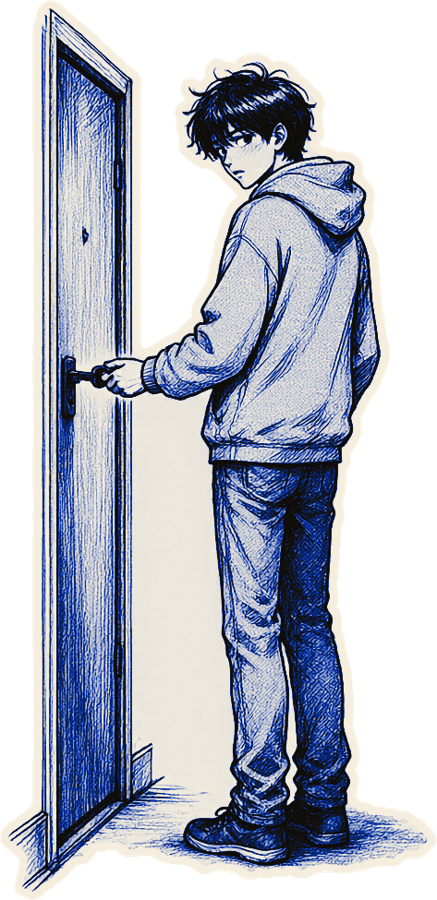
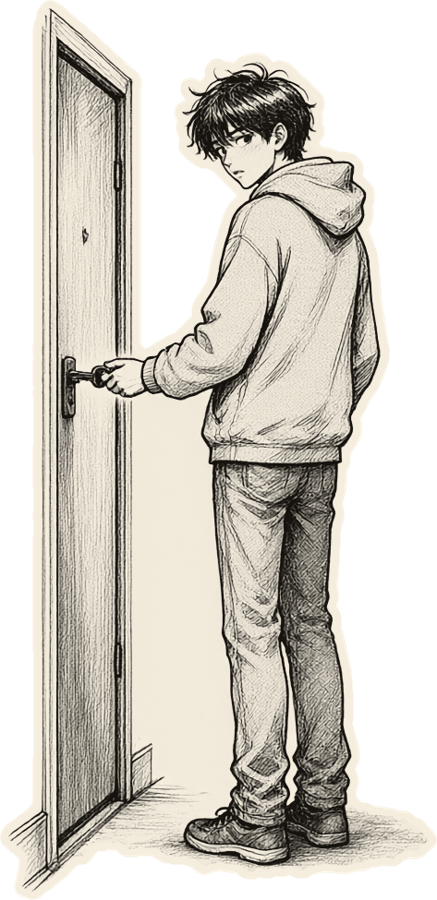
视觉系统 1.7：图片三类（实物贴纸 / 意象插画 / 氛围装饰）、SC02 改铅笔漫画模切贴纸、素材尽量透明（1.13.0）
- styles.json：新增 ambient；sc02 改铅笔灰 + 一处克莱因蓝；device 改透明；flat、anime-scene 停用
- diecut.py 默认铅笔灰；device_paste.py 保留透明通道；genimg 支持停用做法；genimg_list 检查类别
- 样张：sc02 6 张、ambient 6 张、透明手持手机；规则文档同步

Claude-Session: https://claude.ai/code/session_01MMNQANEaFEJ5Bu7Uy5CRsx

diff --git a/docs/previews/src/sheets.html b/docs/previews/src/sheets.html
@@ -47,8 +47,8 @@ table.ct td.r{font:900 26px var(--f-num);text-align:right}
 
 <div class="sheet" id="stickers">
   <div class="k">Aiwei Whitehat Log · Image samples</div>
-  <h1>图片样张 · 写实 12 + 动漫 6</h1>
-  <h2>只作风格样张，不进正片<small>写实为核心、动漫为辅（1.4）；全部抠图后过 tools/grade.py 统一调色。正片素材每期按口播重新生成</small></h2>
+  <h1>图片样张 · 类别 1 实物贴纸</h1>
+  <h2>只作风格样张，不进正片<small>写实 12 张 + 动漫高光版 4 张，全部抠图后过 tools/grade.py。类别 2 / 3 的样张见 docs/previews/styles/categories_*.jpg。正片素材每期按口播重新生成</small></h2>
   <div class="st" id="strow1" style="background:var(--char)"></div>
   <div class="st" id="strow2" style="background:var(--cream)"></div>
   <div class="st" id="strow3" style="background:var(--char)"></div>
@@ -87,10 +87,10 @@ if (sheet === 'stickers') {
   const cell = n => `<div><img src="../../../cards/images/samples/bmz_${n}.png"></div>`;
   document.getElementById('strow1').innerHTML = N.map(cell).join('');
   document.getElementById('strow2').innerHTML = N.map(cell).join('');
-  const AN = ['anime_chip', 'anime_key', 'anime_lock', 'anime_radar'], SC = ['anime_vault', 'anime_datacenter'];
+  const AN = ['anime_chip', 'anime_key', 'anime_lock', 'anime_radar'];
   document.getElementById('strow3').innerHTML = AN.map(n => `<div><img src="../../../cards/images/samples/anime/${n}.png"></div>`).join('') +
-    SC.map(n => `<div style="padding:26px 10px"><img style="border-radius:20px;filter:none" src="../../../cards/images/samples/anime/${n}.jpg"></div>`).join('');
-  document.getElementById('stnames').textContent = '第 1 行：写实 · 炭黑底　第 2 行：写实 · 奶油白底　第 3 行：动漫（4 个物件 + 2 个场景，场景只放进卡片 / 窗口）｜　' + N.map(n => 'bmz_' + n).join(' · ');
+    ['device/device_hand_示例贴图.png'].map(n => `<div><img src="../../../cards/images/samples/${n}"></div>`).join('');
+  document.getElementById('stnames').textContent = '第 1 行：写实 · 炭黑底　第 2 行：写实 · 奶油白底　第 3 行：动漫高光版 4 张 + 手持手机（透明，屏幕已贴示意截图）｜　' + N.map(n => 'bmz_' + n).join(' · ');
 }
 </script>
 </body></html>

diff --git a/docs/previews/src/categories.html b/docs/previews/src/categories.html
@@ -44,9 +44,9 @@ if (F === 'amb') {
 }
 if (F === 'sc02') {
   BGLIB.mount(fr, 'BG3', BG);
-  add('div', 'cap', 'left:64px;top:104px', '类别 2 · 意象插画 · SC02 模切贴纸（炭黑场直接用，奶油白描边 10px，投影渲染时加）');
-  const N = [['sc02_borrowed_key', '越权：用别人的钥匙开门'], ['sc02_waiting', '审核很慢：只能等'], ['sc02_magnifier', 'AI 给线索，人来逐条核'], ['sc02_boundary', '授权边界：到线就停']];
-  N.forEach(([n, l], i) => { const x = 64 + i * 456; img('stk diecut', IMG + `sc02/${n}.png`, x, 170, 420, 700); add('div', 'lab', `left:${x}px;top:900px;width:420px`, l); });
+  add('div', 'cap', 'left:64px;top:104px', '类别 2 · 意象插画 · SC02 铅笔漫画模切贴纸（铅笔灰 + 一处克莱因蓝点缀，奶油白描边 10px，投影渲染时加）');
+  const N = [['sc02_borrowed_key', '越权：用别人的钥匙开门'], ['sc02_waiting', '审核很慢：只能等'], ['sc02_magnifier', 'AI 给线索，人来核'], ['sc02_boundary', '授权边界：到线就停'], ['sc02p_report', '写报告（蓝：马克杯）'], ['sc02p_ladder', '一步步往上（蓝：旗）']];
+  N.forEach(([n, l], i) => { const x = 64 + i * 304; img('stk diecut', IMG + `sc02/${n}.png`, x, 170, 280, 700); add('div', 'lab', `left:${x}px;top:900px;width:290px;font-size:26px`, l); });
 }
 add('div', 'chapter-zone', '');
 window.ready = () => Promise.all([document.fonts.ready, ...[...document.images].map(i => i.decode().catch(() => {}))]);

diff --git a/engine/tokens.css b/engine/tokens.css
@@ -1,4 +1,4 @@
-/* 自动生成：python3 tools/gen_tokens.py ← tokens/brand.json（v1.6.0）。不要手改。 */
+/* 自动生成：python3 tools/gen_tokens.py ← tokens/brand.json（v1.7.0）。不要手改。 */
 :root{
   --char:#16130F;  /* 炭黑 */
   --char-hi:#241F19;  /* 炭黑·中心 */

diff --git a/tools/genimg.py b/tools/genimg.py
@@ -5,8 +5,8 @@
 用法：python3 tools/genimg.py jobs.json 输出目录
 jobs.json: [{"name":"bm01_xxx","preset":"iso","prompt":"本期的画面内容","size":"1024x1024"}, ...]
 preset（风格提示词在 cards/images/styles.json）:
-  real 写实产品摄影（核心）· anime 动漫光效（辅助）· sc02-line / sc02-duo SC02 蓝调漫画 · tone · device · flat ……（新风格加进 styles.json 即可用）
-  停用的风格（styles.json 里 status = 停用：sticker、toy、iso）默认拒绝；确实要用（例如重做旧样张）加 --allow-retired
+  类别 1：real 写实（核心）· anime 动漫高光版 · device 手持手机 ｜ 类别 2：sc02-line / sc02-duo 铅笔漫画 ｜ 类别 3：ambient 氛围道具（新风格加进 styles.json 即可用）
+  停用的风格 / 做法（styles.json 里 status = 停用：sticker、toy、iso、flat、anime-scene）默认拒绝；确实要用（例如重做旧样张）加 --allow-retired
 生成后：python3 -I tools/cutout.py object … → python3 -I tools/grade.py …（统一调色）
   photo    写实照片（只放进手机屏幕、窗口、卡片里，不整屏铺底）
   raw      不加后缀
@@ -20,7 +20,7 @@ import base64, json, os, subprocess, sys, time
 ROOT = os.path.dirname(os.path.dirname(os.path.abspath(__file__)))
 BRAND = json.load(open(os.path.join(ROOT, 'tokens', 'brand.json'), encoding='utf-8'))
 STYLES = json.load(open(os.path.join(ROOT, BRAND['imagery']['styles_file']), encoding='utf-8'))['styles']
-RETIRED = {k for k, v in STYLES.items() if v.get('status') == '停用'}
+RETIRED = {k for k, v in STYLES.items() if v.get('status') == '停用'} | {f'{k}-{vk}' for k, v in STYLES.items() for vk, vv in v.get('variants', {}).items() if vv.get('status') == '停用'}
 PRESET = {
     **{k: v['prompt_suffix'] for k, v in STYLES.items() if 'prompt_suffix' in v},
     **{f'{k}-{vk}': vv['prompt_suffix'] for k, v in STYLES.items() for vk, vv in v.get('variants', {}).items()},
@@ -28,7 +28,7 @@ PRESET = {
     'raw': "",
 }
 jobs = json.load(open(sys.argv[1], encoding='utf-8')); out = sys.argv[2]; os.makedirs(out, exist_ok=True)
-bad = sorted({j.get('preset', 'raw').split('-')[0] for j in jobs} & RETIRED)
+bad = sorted({p for j in jobs for p in (j.get('preset', 'raw'), j.get('preset', 'raw').split('-')[0])} & RETIRED)
 if bad and '--allow-retired' not in sys.argv:
     sys.exit('风格已停用：%s（见 cards/images/styles.json 的 retired_reason；名词实物化改用 real）。确实要用加 --allow-retired' % '、'.join(bad))
 for j in jobs:

diff --git a/tools/genimg_list.py b/tools/genimg_list.py
@@ -2,11 +2,14 @@
 """把生图清单（docs/templates/生图清单模板.md 的表格）转成 tools/genimg.py 的任务文件。
 用法：python3 tools/genimg_list.py 生图清单.md > jobs.json
 读取表头含「preset」「文件名」「画面描述」的表格，每行一个任务；文件名为空或 preset 为空的行跳过。
-停用的风格（styles.json 里 status = 停用）直接报错。"""
+停用的风格 / 做法（styles.json 里 status = 停用）直接报错。
+1.7：表格有「类别」列时检查风格和类别对得上（1 实物贴纸 / 2 意象插画 / 3 氛围装饰，见 brand.json → imagery.categories），
+类别 2 必须写「要传达的意思」。"""
 import json, os, sys
 ROOT = os.path.dirname(os.path.dirname(os.path.abspath(__file__)))
 STY = json.load(open(os.path.join(ROOT, 'cards/images/styles.json'), encoding='utf-8'))['styles']
-OK = {k for k, v in STY.items() if v.get('status') != '停用'} | {f'{k}-{vk}' for k, v in STY.items() if v.get('status') != '停用' for vk in v.get('variants', {})} | {'photo', 'raw'}
+OK = {k for k, v in STY.items() if v.get('status') != '停用'} | {f'{k}-{vk}' for k, v in STY.items() if v.get('status') != '停用' for vk, vv in v.get('variants', {}).items() if vv.get('status') != '停用'} | {'photo', 'raw'}
+CAT = {k: set(v['styles']) for k, v in json.load(open(os.path.join(ROOT, 'tokens/brand.json'), encoding='utf-8'))['imagery']['categories'].items()}
 cells = lambda l: [c.strip() for c in l.strip().strip('|').split('|')]
 jobs, head, errs = [], None, []
 for line in open(sys.argv[1], encoding='utf-8'):
@@ -21,6 +24,11 @@ for line in open(sys.argv[1], encoding='utf-8'):
     if not name or not preset: continue
     if preset not in OK: errs.append(f'{name}：preset「{preset}」不可用（停用或不存在）'); continue
     if not prompt: errs.append(f'{name}：缺画面描述'); continue
+    cat = row.get('类别', '').strip()
+    if cat:
+        if cat not in CAT: errs.append(f'{name}：类别「{cat}」只能是 1 / 2 / 3'); continue
+        if preset.split('-')[0] not in CAT[cat]: errs.append(f'{name}：类别 {cat} 只用 {"、".join(sorted(CAT[cat]))}，这里写的是 {preset}'); continue
+        if cat == '2' and not row.get('要传达的意思', '').strip(): errs.append(f'{name}：类别 2（意象插画）要先写「要传达的意思」'); continue
     j = {'name': name, 'preset': preset, 'prompt': prompt}
     if preset == 'anime-scene': j['size'] = '1536x1024'
     jobs.append(j)

diff --git a/tools/diecut.py b/tools/diecut.py
@@ -1,11 +1,11 @@
 #!/usr/bin/env python3
 """模切贴纸：把纸底漫画（SC02）做成带奶油白描边的透明贴纸，放在炭黑场上也立得住（类别 2 · 意象插画）。
-用法：python3 -I tools/diecut.py 原图.png 输出.png [--border 10] [--tone klein|ink|none] [--crop x0,y0,x1,y1] [--close 12]
+用法：python3 -I tools/diecut.py 原图.png 输出.png [--border 10] [--tone none|klein|ink] [--crop x0,y0,x1,y1] [--close 12]
   1. 找墨迹：比纸色暗一截的像素 + 有颜色的像素（朱橙点缀、蓝色网点）
   2. 轮廓：闭运算把排线连起来 → 填洞 → 去掉碎点 → 平滑，得到人物 / 物件的剪影
   3. 描边：剪影外扩 --border px（圆角），描边区填奶油白；边缘抗锯齿，输出透明 PNG
-  4. 调色（--tone klein，默认）：灰阶按 炭黑 → 克莱因蓝 → 奶油白 映射（和 sc02-duo 同一组色标，见 brand.json → imagery.duotone.klein），
-     有颜色的像素（朱橙点缀）保留；--tone ink 蓝黑墨（只有最深的墨线偏蓝，中间调是中性铅笔灰）；--tone none 只把纸白映射成奶油白、墨黑映射成炭黑
+  4. 调色（默认 --tone none，1.7 用户确认）：铅笔灰原样保留，只把纸白映射成奶油白、墨黑映射成炭黑；有颜色的像素（克莱因蓝点缀、朱橙光）保留原色。
+     --tone klein 蓝调（灰阶按 炭黑 → 克莱因蓝 → 奶油白 映射，只给冷色情绪的极少数画面）；--tone ink 蓝黑墨（对比用，不推荐）
   --crop 先裁掉画面里伸到边上的部分（例如贯穿全图的地平线），再做模切
 投影不烘焙：网页用 filter: drop-shadow，AE 用图层样式「投影」，方便调。"""
 import json, os, sys
@@ -23,7 +23,7 @@ while i < len(args):
     pos_args.append(args[i]); i += 1
 src, dst = pos_args[:2]
 opt = lambda k, d: type(d)(args[args.index(k) + 1]) if k in args else d
-BORDER, TONE, CLOSE, CROP = opt('--border', 10), opt('--tone', 'klein'), opt('--close', 12), opt('--crop', '')
+BORDER, TONE, CLOSE, CROP = opt('--border', 10), opt('--tone', 'none'), opt('--close', 12), opt('--crop', '')
 
 img = Image.open(src).convert('RGB')
 if CROP: img = img.crop(tuple(int(v) for v in CROP.split(',')))

diff --git a/tools/device_paste.py b/tools/device_paste.py
@@ -4,7 +4,8 @@
   1. 找屏幕：亮度 ≥ --white、饱和度低的像素里最大的一块（device 提示词要求「纯白空屏」）
   2. 四个角：x+y 最小 / x−y 最大 / x+y 最大 / x−y 最小 → 左上 / 右上 / 右下 / 左下
   3. 截图按四个角做透视变换贴上去，再用屏幕本身的形状做遮罩：圆角、刘海、手指压住的地方都保留照片原样
-截图保留原色（用户素材不调色）；照片本身要过 tools/grade.py 的话，先调色再贴截图。"""
+截图保留原色（用户素材不调色）；照片本身要过 tools/grade.py 的话，先调色再贴截图。
+1.7：照片可以是抠好的透明 PNG（只有手和手机），透明通道原样保留。"""
 import sys
 import numpy as np
 from PIL import Image, ImageFilter
@@ -15,9 +16,11 @@ opt = lambda k, d: float(sys.argv[sys.argv.index(k) + 1]) if k in sys.argv else 
 photo_p, shot_p, out_p = args[:3]
 WHITE, FEATHER = opt('--white', 225), opt('--feather', 1)
 
-photo = Image.open(photo_p).convert('RGB'); P = np.asarray(photo).astype(np.int16)
+src_img = Image.open(photo_p); has_a = src_img.mode in ('RGBA', 'LA') or 'transparency' in src_img.info
+photo = src_img.convert('RGB'); P = np.asarray(photo).astype(np.int16)
+A0 = np.asarray(src_img.convert('RGBA'))[:, :, 3] if has_a else np.full(P.shape[:2], 255, np.uint8)
 lum = P.mean(axis=2); sat = P.max(axis=2) - P.min(axis=2)
-cand = (lum >= WHITE) & (sat <= 30)   # 调过色的照片白屏是奶油白（饱和差约 22）
+cand = (lum >= WHITE) & (sat <= 30) & (A0 > 200)   # 调过色的照片白屏是奶油白（饱和差约 22）
 lab, n = ndimage.label(cand)
 if not n: sys.exit('没找到白屏：调低 --white，或确认照片是纯白空屏')
 sizes = ndimage.sum(cand, lab, range(1, n + 1))
@@ -53,5 +56,6 @@ warped = shot.transform(photo.size, Image.PERSPECTIVE, tuple(coef), Image.BICUBI
 mask = Image.fromarray((ndimage.binary_dilation(screen, iterations=2) * 255).astype(np.uint8))
 if FEATHER: mask = mask.filter(ImageFilter.GaussianBlur(FEATHER))
 out = photo.copy(); out.paste(warped, (0, 0), mask)
+if has_a: out.putalpha(Image.fromarray(A0))
 out.save(out_p)
 print(out_p, '屏幕四角', quad.astype(int).tolist())

diff --git a/STYLE.md b/STYLE.md
@@ -1,4 +1,4 @@
-# 艾唯白帽志 · 视觉系统 1.6
+# 艾唯白帽志 · 视觉系统 1.7
 
 所有数值以 `tokens/brand.json` 为准（本文件是说明）。网页用 `engine/tokens.css`（由 `tools/gen_tokens.py` 生成）+ `engine/base.css`。
 预览：`docs/previews/`（`sheet_palette.jpg` 配色、`sheet_backgrounds.jpg` 背景板、`sheet_stickers.jpg` 陶瓷贴纸样张（1.4 起停用，仅作历史参考）、`demo_F1–F4.jpg` 演示关键帧、`phone_demo.jpg` 手机竖屏模拟）。各图片风格的样张预览在 `docs/previews/styles/`；`toy` / `tone` 样张和演示帧 F5 / F6 在提交 `adbbc35`（`main` 历史中）。
@@ -15,7 +15,7 @@
 
 ## 1. 概念与气质
 - 账号：艾唯白帽志 —— AI 挖洞、攻防技术、网安就业。
-- 气质：**简约、高级、冷静的科技感**。炭黑做底，朱橙点重点，克莱因蓝做对照，**写实产品摄影**做主体（1.4 起；动漫光效为辅）。
+- 气质：**简约、高级、冷静的科技感**。炭黑做底，朱橙点重点，克莱因蓝做对照；图片分三类（1.7）：实物贴纸（写实为核心）、意象插画（SC02 铅笔漫画模切贴纸）、氛围装饰（写实虚化道具 + 光斑）。
 - **高质感版**（1.5 起，用户确认）：画面像一张「工作台」——点阵 + 十字标的背景（BG3），主体后面放朱橙光晕 + 刻度环，窗口和卡片是细描边 + 深投影，物件、窗口、构造线上带等宽装饰小字。来源和对比见 `docs/previews/explore/compare_D1.jpg`、`compare_D6.jpg`。
 - 母题：**雷达**（AI 扫描目标）。1.5 起以「焦点刻度环」出现在主体后面（BG3 焦点组件）；圆环 + 扫描扇区（BG1）保留给章节卡和雷达扫掠转场。
 - 视觉符号：**白帽**（奶油白礼帽 + 克莱因蓝帽带）。只是母题，需要时按本期生成，不做跨期复用的品牌素材。
@@ -90,24 +90,24 @@
 | 信息卡 | `cards/infocards/` | 承载信息的组件 × A/B 场景 × S–XL（`IC.render` + `IC.fit` + `IC.animate`） | ✅ P4：20 个，持续扩充 |
 | 配方 | `cards/recipes/` | 叙事功能 → 排版 + 信息卡 + 图片 + 动效 | P6 |
 
-### 6.1 图片风格（`cards/images/styles.json`）
-**不设品牌素材层，每期的图片都不一样。** 库里只放风格提示词和后期处理方法，每期按口播写画面内容、配上风格后缀现生成，或用用户交来的图。**不得使用挖洞号的 SC-01、黑白雕塑或任何挖洞号素材。**
-| preset | 风格 | 用来讲什么 | 后期 |
+### 6.1 图片：三类素材（1.7，用户确认）
+**不设品牌素材层，每期的图片都不一样。** 库里只放风格提示词和后期处理方法，每期按口播现生成，或用用户交来的图。**不得使用挖洞号的 SC-01、黑白雕塑或任何挖洞号素材。** **素材尽量透明底**：手持手机就是「手 + 手机」，不带桌面和环境。
+
+| 类别 | 是什么 | 风格（preset） | 后期 |
 |---|---|---|---|
-| **`real`** | **写实产品摄影（核心）**：真实材质（拉丝金属、阳极氧化铝、玻璃、哑光塑料），暗调布光 + 暖色轮廓光，物件保留本来的颜色 | 名词实物化（芯片、服务器、锁、钥匙、手机……） | 抠透明底 → 统一调色 |
-| `anime` | 动漫光效（辅助）：手绘动画电影背景美术质感，夜蓝阴影 + 朱橙光 | 主角镜头、高光时刻（开场主体、金句、关键一步），一屏最多一个 | 抠透明底 → 统一调色 |
-| `sc02-line` | **SC02 · 蓝调漫画** · 蓝线漫画 | 角色、情境、人物反应 | 直接用 / 抠透明底 |
-| `sc02-duo` | **SC02 · 蓝调漫画** · 黑白漫画 → 蓝调 | 物件、场景、情绪节点 | `tools/duotone.py --map klein --grain 0` |
-| `tone` | 双色调摄影 | 章节卡、反转、金句 | `tools/duotone.py` |
-| `device` | 手持设备实拍 | 把用户截图放进手机屏幕 | 调色 → `tools/device_paste.py` 自动透视贴入截图（样张 `samples/device/`） |
-| `flat` | 几何平面插画 | 比喻、类比 | 放进卡片（样张 `samples/flat/`） |
-- **SC02** 是白帽志版的漫画风，和挖洞号 SC-01 的区别：不用黑帽遮眼 / 黑工装夹克的形象，不做「炭黑底 + 黑白人物 + 暖色轮廓光」，网点和高光用克莱因蓝，朱橙只做极小点缀，优先放奶油白场。样张预览 `docs/previews/styles/SC02.jpg`。
-- **写实为核心，动漫为辅**（2026-11-27 用户确认）。一期尽量只用 2–3 种风格；写实、动漫、漫画、平面插画不在同一个镜头里混用。`flat` / `device` 样张见 `docs/previews/styles/flat_device.jpg`。
-- **统一调色，不统一配色**：生图保留物件本来的颜色，不再限制奶油白 / 克莱因蓝 / 朱橙三色；抠图后一律过 `python3 -I tools/grade.py`（参数在 `brand.json` → `imagery.grade`）：朱橙附近色相保留饱和度、其他色相压到一半，纯黑 → 炭黑、纯白 → 奶油白。状态灯、发光在提示词里写成 warm orange，不要绿灯、蓝光、紫光。
-- 写实的暗色物件（黑机箱、深色锁体）放在炭黑场会被吃掉轮廓：提示词必须写 warm rim light，挑图时检查轮廓。
-- **停用**：`sticker` 陶瓷贴纸、`toy` 设计师玩具、`iso` 等距微缩（同为粘土 / 陶瓷质感，显得廉价、像模板）。`tools/genimg.py` 默认拒绝这三个 preset。结构、流程类内容改用矢量图形和信息卡画。
-- **样张（P5，2026-11-27）**：`cards/images/samples/bmz_*.png` 写实 12 张，`cards/images/samples/anime/` 动漫 6 张（物件 4 + 场景 2），预览 `docs/previews/sheet_stickers.jpg`，提示词 `samples/prompts.json`。**样张不进正片**。风格对比见 `docs/previews/explore/styles_sheet.jpg`。动漫有两种做法：`anime`（物件，抠图）和 `anime-scene`（空场景，只调色，放进卡片 / 窗口）。
-- 用户提供的截图、图片、录屏一律**保留原色**，放进窗口 / 卡片 / 手机屏幕里，不重新调色；需要时只加朱橙标注。
+| **1 · 实物贴纸** | 口播直接说到的东西：说到什么画什么 | **`real` 写实产品摄影（核心）**：真实材质，暗调布光 + 暖色轮廓光，物件保留本来的颜色 · `anime` 动漫高光版：全期最关键的 1–2 个时刻，只画物件 · `device` 手持手机：只有手和手机 | 抠图 → `tools/grade.py`；手机再 `tools/device_paste.py` 贴截图 |
+| **2 · 意象插画** | 口播没直说、要让观众意会的抽象意思（越权 = 用别人的钥匙开门；审核慢 = 趴在桌上等） | **`sc02-line` SC02 · 铅笔漫画**：铅笔灰打底，克莱因蓝只做一处小物件点缀（`sc02-duo` 黑白漫画可选） | `tools/diecut.py` 做成模切贴纸（奶油白描边 10px） |
+| **3 · 氛围装饰** | 不讲内容，只加画面丰富度和质感 | **`ambient` 写实虚化道具**（键帽、网线、螺丝、电路板碎片……）+ 程序化光斑 `.bokeh` | 抠图 → `tools/grade.py --sat 0.3`；虚化、压暗在渲染时加（`.amb.near` / `.amb.far`） |
+
+- **主体规则**：每个镜头的主体是类别 1 或类别 2 之一；类别 3 只做陪衬，每屏 ≤ 3 个，不带朱橙，不进章节进度条区，不挡主体和字。主体是类别 2（SC02）的镜头，类别 3 只用程序化光斑，不放写实道具。
+- **证据**：用户提供的截图、图片、录屏不属于这三类，**保留原色**放进窗口 / 卡片 / 手机屏幕里，不重新调色；需要时只加朱橙标注。
+- **统一调色，不统一配色**：生图保留物件本来的颜色；抠图后一律过 `python3 -I tools/grade.py`（参数在 `brand.json` → `imagery.grade`）：朱橙附近色相保留饱和度、其他色相压到一半，纯黑 → 炭黑、纯白 → 奶油白。状态灯、发光写成 warm orange，不要绿灯、蓝光、紫光。写实的暗色物件提示词必须写 warm rim light。
+- **SC02 · 铅笔漫画**（1.7 起，原「蓝调漫画」）：铅笔灰 + 一处克莱因蓝点缀，像宝石一样，不整张染蓝；物件本身不画成朱橙，朱橙只做极小的光。提示词固定写「整个人物在画面内、四周留白」，挑图检查有没有被裁切、有没有 logo。和挖洞号 SC-01 的区别：不用黑帽遮眼 / 黑工装夹克，不做「炭黑底 + 黑白人物 + 暖色轮廓光」。三种色调对比见 `docs/previews/styles/sc02_tone_compare.jpg`；蓝调（`diecut.py --tone klein`）只留给冷色情绪的极少数画面。
+- 一期尽量只用 2–3 种风格；同一镜头里写实和漫画不混用（类别 3 的写实道具只配类别 1 主体）。
+- **其他**：`tone` 双色调摄影保留给章节卡、金句的情绪画面（混合模式「变亮」融进背景，例外地不透明）。
+- **停用**：`sticker` 陶瓷贴纸、`toy` 设计师玩具、`iso` 等距微缩（粘土 / 陶瓷质感显得廉价）；`flat` 几何插画（比喻交给 SC02）；`anime-scene` 动漫场景（整张带背景）。`tools/genimg.py`、`tools/genimg_list.py` 默认拒绝。
+- **样张**（不进正片）：类别 1 `cards/images/samples/bmz_*.png`（写实 12）、`samples/anime/`（4）、`samples/device/`；类别 2 `samples/sc02/`（6）；类别 3 `samples/ambient/`（6）。预览：`docs/previews/sheet_stickers.jpg`、`docs/previews/styles/categories_A.jpg / B / amb / sc02`。提示词记录 `samples/prompts.json`。
+- 生图清单按 `docs/templates/生图清单模板.md` 写，每张标「类别」，类别 2 先写「要传达的意思」；`tools/genimg_list.py` 会检查类别和风格对得上。
 
 ## 7. 其他库
 | 库 | 位置 | 状态 |

diff --git a/docs/templates/生图清单模板.md b/docs/templates/生图清单模板.md
@@ -1,19 +1,23 @@
 # 生图清单 · BMxx《本期标题》
 
 > 剪辑思路汇报的附件。用户确认（可删减、改画面描述）后，用 `python3 tools/genimg_list.py 本文件 > footage/gen/jobs.json` 生成任务文件，再 `python3 tools/genimg.py footage/gen/jobs.json footage/gen` 串行生图。
-> 规则：数量按「契合口播、不抢核心演示」范围内的最大量规划；实操录屏、人物画面不加图；同一张生图不得出现在两期（交付前对照 `EPISODES.md` 的素材使用记录）。
+> 规则：数量按「契合口播、不抢核心演示」范围内的最大量规划；实操录屏、人物画面不加图；同一张生图不得出现在两期（交付前对照 `EPISODES.md` 的素材使用记录）。素材尽量透明底。
 
-- 总数：N 张（写实 a · 动漫 b · 其他 c）
-- 风格：写实 `real` 为核心；高光时刻用 `anime` / `anime-scene`，一屏最多一个；人物、情境用 `sc02-line` / `sc02-duo`；比喻用 `flat`；手机截图用 `device`。停用：`sticker` / `toy` / `iso`。
+- 总数：N 张（类别 1 实物贴纸 a · 类别 2 意象插画 b · 类别 3 氛围装饰 c）
+- **类别 1 · 实物贴纸**：口播直接说到的东西，说到什么画什么。`real` 写实为核心；全期最关键的 1–2 个时刻可用 `anime` 高光版；手机截图用 `device`（透明：只有手和手机）。
+- **类别 2 · 意象插画**：口播没直说、要让观众意会的意思。先写「要传达的意思」，再写画面。`sc02-line` 铅笔漫画 → 模切贴纸（克莱因蓝只做一处小点缀）。
+- **类别 3 · 氛围装饰**：不讲内容，只加质感。`ambient` 写实虚化道具（每屏 ≤ 3 个，不带朱橙）；主体是类别 2 的镜头只用程序化光斑，不出图。
+- 每个镜头的主体是类别 1 或类别 2 之一。停用：`sticker` / `toy` / `iso` / `flat` / `anime-scene`。
 - 画面描述只写本期的物件 / 场景，不写风格后缀（`genimg.py` 按 preset 自动加）；不写屏幕文字、标签、Logo。
 
-| # | 镜头 | 对应口播 | preset | 文件名 | 画面描述（英文，不含风格后缀） | 后期 | 备注 |
-|---|---|---|---|---|---|---|---|
-| 1 | S03 | 「AI 先把接口跑一遍」 | real | bm01_chip | a square AI processor chip, black ceramic package with brushed aluminium heat spreader, gold pins, faint warm orange glow at the die edge | 抠图 → 调色 | 当前步主体，挂 BG3 焦点 |
-| 2 | S07 | 「金库门开了一条缝」 | anime-scene | bm01_vault | a massive round bank vault door slightly ajar in a dark corridor, warm orange light pouring out of the gap | 只调色 | 放进 XL 卡片 |
-| 3 | S09 | 「审核通过会收到通知」 | device | bm01_phone | one hand holding a phone upright with a slight tilt, the whole phone visible | 调色 → 贴截图 | 截图用用户提供的（保留原色） |
+| # | 镜头 | 对应口播 | 类别 | 要传达的意思 | preset | 文件名 | 画面描述（英文，不含风格后缀） | 后期 | 备注 |
+|---|---|---|---|---|---|---|---|---|---|
+| 1 | S03 | 「AI 先把接口跑一遍」 | 1 | — | real | bm01_chip | a square AI processor chip, black ceramic package with brushed aluminium heat spreader, gold pins, faint warm orange glow at the die edge | 抠图 → 调色 | 当前步主体，挂 BG3 焦点 |
+| 2 | S05 | 「改个 uid 就看到别人的订单」 | 2 | 越权：拿别人的钥匙开了别人的门 | sc02-line | bm01_borrowed_key | a young person in a light grey hoodie turning a key in the lock of a small freestanding door, glancing back over the shoulder nervously, the key colored Klein blue | 模切 | 主体，配关键词卡 |
+| 3 | S05 | — | 3 | — | ambient | bm01_amb_keycaps | three loose mechanical keyboard keycaps in matte charcoal grey | 抠图 → 调色 --sat 0.3 | S03 前景虚化 |
+| 4 | S09 | 「审核通过会收到通知」 | 1 | — | device | bm01_phone | one hand holding a phone upright with a slight tilt | 抠图 → 调色 → 贴截图 | 截图用用户提供的（保留原色） |
 
 后期命令：
-- 物件（real / anime）：`python3 -I tools/cutout.py object 原图 抠图.png [--fill-holes]` → `python3 -I tools/grade.py 抠图.png episodes/<本期>/assets/文件名.png`
-- 场景（anime-scene）、几何插画（flat）：`python3 -I tools/grade.py 原图 输出`（flat 可不调色）
-- 手持设备（device）：先 `tools/grade.py` 调照片，再 `python3 -I tools/device_paste.py 照片 截图 输出`（截图保留原色）
+- 类别 1 物件（real / anime）、类别 3（ambient）：`python3 -I tools/cutout.py object 原图 抠图.png [--fill-holes]` → `python3 -I tools/grade.py 抠图.png 输出.png`（类别 3 加 `--sat 0.3`）
+- 类别 1 手持手机（device）：抠图（`--fill-holes`）→ `tools/grade.py` → `python3 -I tools/device_paste.py 调色.png 截图.png 输出.png`
+- 类别 2（sc02）：`python3 -I tools/diecut.py 原图 输出.png`（画面伸到边上的先 `--crop x0,y0,x1,y1`）

diff --git a/cards/images/README.md b/cards/images/README.md
@@ -8,14 +8,17 @@
 | preset | 风格 | 用来讲什么 | 后期 | 样张 |
 |---|---|---|---|---|
 | **`real`** | **写实产品摄影（核心）** | 名词实物化：芯片、服务器、锁、钥匙、手机…… | 抠透明底 → `tools/grade.py` | `samples/bmz_*.png` |
-| `anime` / `anime-scene` | 动漫光效（辅助）：物件 / 空场景 | 主角镜头、高光时刻，一屏最多一个；场景放进卡片 / 窗口 | 物件抠图 → `tools/grade.py`；场景只调色 | `samples/anime/` |
-| `sc02-line` | **SC02 · 蓝调漫画** · 做法一 蓝线漫画 | 角色、情境、人物反应 | 直接用 / 抠透明底 | `docs/previews/styles/SC02.jpg` |
-| `sc02-duo` | **SC02 · 蓝调漫画** · 做法二 黑白漫画 → 蓝调 | 物件、场景、情绪节点 | `tools/duotone.py --map klein --grain 0` | 同上 |
+| `anime` | 动漫高光版（类别 1）；`anime-scene` 已停用 | 全期最关键的 1–2 个时刻，只画物件 | 抠图 → `tools/grade.py` | `samples/anime/` |
+| `sc02-line` | **SC02 · 铅笔漫画**（类别 2）：铅笔灰 + 一处克莱因蓝 | 意象插画：要让观众意会的意思 | `tools/diecut.py` 模切贴纸 | `samples/sc02/` |
+| `sc02-duo` | SC02 · 黑白漫画（可选） | 需要更硬朗的线条时 | `tools/diecut.py`（`--tone klein` 蓝调只给冷色情绪） | — |
+| `ambient` | **氛围道具**（类别 3）：写实虚化道具 | 只加质感，不讲内容；每屏 ≤ 3 个 | 抠图 → `tools/grade.py --sat 0.3`；虚化在渲染时加 | `samples/ambient/` |
 | `tone` | 双色调摄影 | 章节卡、反转、金句 | `tools/duotone.py` | 提交 `adbbc35` |
-| `device` | 手持设备实拍 | 把用户截图放进手机屏幕 | 调色 → `tools/device_paste.py` | `samples/device/` |
-| `flat` | 几何平面插画 | 比喻、类比 | 放进卡片 | `samples/flat/` |
+| `device` | 手持手机（类别 1，透明：只有手和手机） | 把用户截图放进手机屏幕 | 抠图 → 调色 → `tools/device_paste.py` | `samples/device/` |
+| `flat` | 几何平面插画（**停用**：比喻交给 SC02） | — | — | git 历史 |
 
 每个风格的完整提示词后缀、放法、示例主题和注意事项都在 `styles.json`。
+
+**1.7 起图片分三类**（`STYLE.md` 6.1）：类别 1 实物贴纸（`real` 核心、`anime` 高光版、`device` 手持手机）· 类别 2 意象插画（`sc02` 铅笔漫画 → `tools/diecut.py` 模切贴纸）· 类别 3 氛围装饰（`ambient` 写实虚化道具 + 程序化光斑）。下表里标「停用」的不再使用。
 
 **停用**（2026-11-27，视觉系统 1.4）：`sticker` 陶瓷贴纸、`toy` 设计师玩具、`iso` 等距微缩。三者同为粘土 / 陶瓷质感，显得廉价、像模板；`styles.json` 里保留条目（`status: 停用`）作记录，`tools/genimg.py` 默认拒绝。
 

diff --git a/CHANGELOG.md b/CHANGELOG.md
@@ -1,5 +1,14 @@
 # 更新记录
 
+## 1.13.0 · 2026-11-27 · 视觉系统 1.7：图片三类、SC02 铅笔漫画、素材尽量透明
+- **图片分三类**（用户确认）：类别 1 实物贴纸（`real` 写实为核心、`anime` 高光版、`device` 手持手机）· 类别 2 意象插画（`sc02` 铅笔漫画模切贴纸）· 类别 3 氛围装饰（新增 `ambient` 写实虚化道具 + 程序化光斑）。`brand.json` → `imagery.categories` / `subject_rule` / `transparent`，版本 1.7.0。
+- **SC02 改为铅笔漫画**：铅笔灰打底 + 一处克莱因蓝点缀（用户认可铅笔灰更高级）；提示词固定写「整个人物在画面内、四周留白」「物件不画成朱橙」。新增 `tools/diecut.py` 模切贴纸（默认 `--tone none` 保留铅笔灰，`--tone klein` 蓝调可选，`--crop` 先裁掉伸到边上的部分）。样张 6 张（`samples/sc02/`），三种色调对比 `docs/previews/styles/sc02_tone_compare.jpg`。
+- **素材尽量透明**：`device` 改为「只有手和手机」的透明素材（抠图 → 调色 → `device_paste.py`，透明通道保留）。
+- **停用**：`flat`（比喻交给 SC02）、`anime-scene`（整张带背景）；样张移除（git 历史里有）。`genimg.py` 支持停用某个做法。
+- 类别 3：`samples/ambient/` 6 张；`grade.py --sat`；`base.css` 新增 `.amb.near` / `.amb.far`（渲染时虚化压暗）、`.stk.diecut`、`.bokeh`。镜头示意 `docs/previews/styles/categories_A.jpg`（实物贴纸 + 氛围道具）、`categories_B.jpg`（模切贴纸 + 光斑）。
+- 生图清单模板加「类别」「要传达的意思」两列；`genimg_list.py` 检查类别和风格对得上、类别 2 必须写要传达的意思。
+- 同步 `CLAUDE.md`、`STYLE.md` 6.1、`cards/images/README.md`、`docs/rules/`。
+
 ## 1.12.0 · 2026-11-27 · 视觉系统 1.6：顶部章节进度条区；P5 完成
 - **顶部章节进度条区**（用户要求）：画面顶部 7% = 76px 留给章节进度条（用户剪辑时放置），内容和出血都不进这一条，内容从 y = 104 开始。`brand.json` → `layout.chapter_bar`（h 76、gap 28），`gen_tokens.py` 输出 `--chapter-h` / `--content-top`。
 - `layout_lint`：顶部页边距改为 104，压到章节进度条区（含出血）报错；利用率按去掉这一条后的画面算。50 个排版整体下移（y 56–872 线性映射到 104–872，872 以下不动，按 8 对齐；S/M/L/XL 卡只移位置；标题保持原高度），全部通过、零提醒。自检加「压到章节进度条区」，夹具 L-T01 同步，90 项通过。

diff --git a/CLAUDE.md b/CLAUDE.md
@@ -15,7 +15,8 @@
 - 局部修改只重渲受影响片段；MP4 与 AE 脚本同步更新。风格 / 版式大改先出关键帧确认。
 
 ## 画面与文字
-- **高质感版**（视觉系统 1.5 起）：炭黑场默认用 BG3「工作台」背景（点阵 + 十字标，主体后面放焦点光晕 + 刻度环）；**一屏一个朱橙焦点**，标题默认不加色块；卡片是细描边 + 深投影；物件图写实为核心、动漫为辅。
+- **高质感版**（视觉系统 1.5 起）：炭黑场默认用 BG3「工作台」背景（点阵 + 十字标，主体后面放焦点光晕 + 刻度环）；**一屏一个朱橙焦点**，标题默认不加色块；卡片是细描边 + 深投影。
+- **图片三类**（1.7）：类别 1 实物贴纸（口播说到的东西，写实为核心，动漫只做全期 1–2 个高光）· 类别 2 意象插画（要让观众意会的意思，SC02 铅笔漫画模切贴纸）· 类别 3 氛围装饰（写实虚化道具 + 光斑，每屏 ≤ 3，不带朱橙）。每个镜头的主体是类别 1 或 2；素材尽量透明底（手持手机就是「手 + 手机」）。细则见 `STYLE.md` 6.1。
 - **简约**：一屏一个标题 + 一个主体（贴纸、录屏或一组信息卡）。不做 HUD、时间码、编号角标、（章节进度条以外的）进度条，**不做人物小窗，不留左上角角标位**（与挖洞号不同）。
 - **顶部章节进度条区**（1.6）：画面顶部 7%（76px）留给章节进度条（用户剪辑时放置），任何内容和出血都不进这一条，内容从 y = 104 开始；背景板照常铺满。除了这条章节进度条，仍不做别的进度条。
 - **16:9 空间利用率最大化**：页边距只留 64px（左右）/ 56px（底部），顶部从 104 起，主体可以出血（不进章节进度条区）；主体至少占画面 45%，全部内容至少占 70%；录屏窗口占画面宽 85–94%。只保留字幕安全区。
